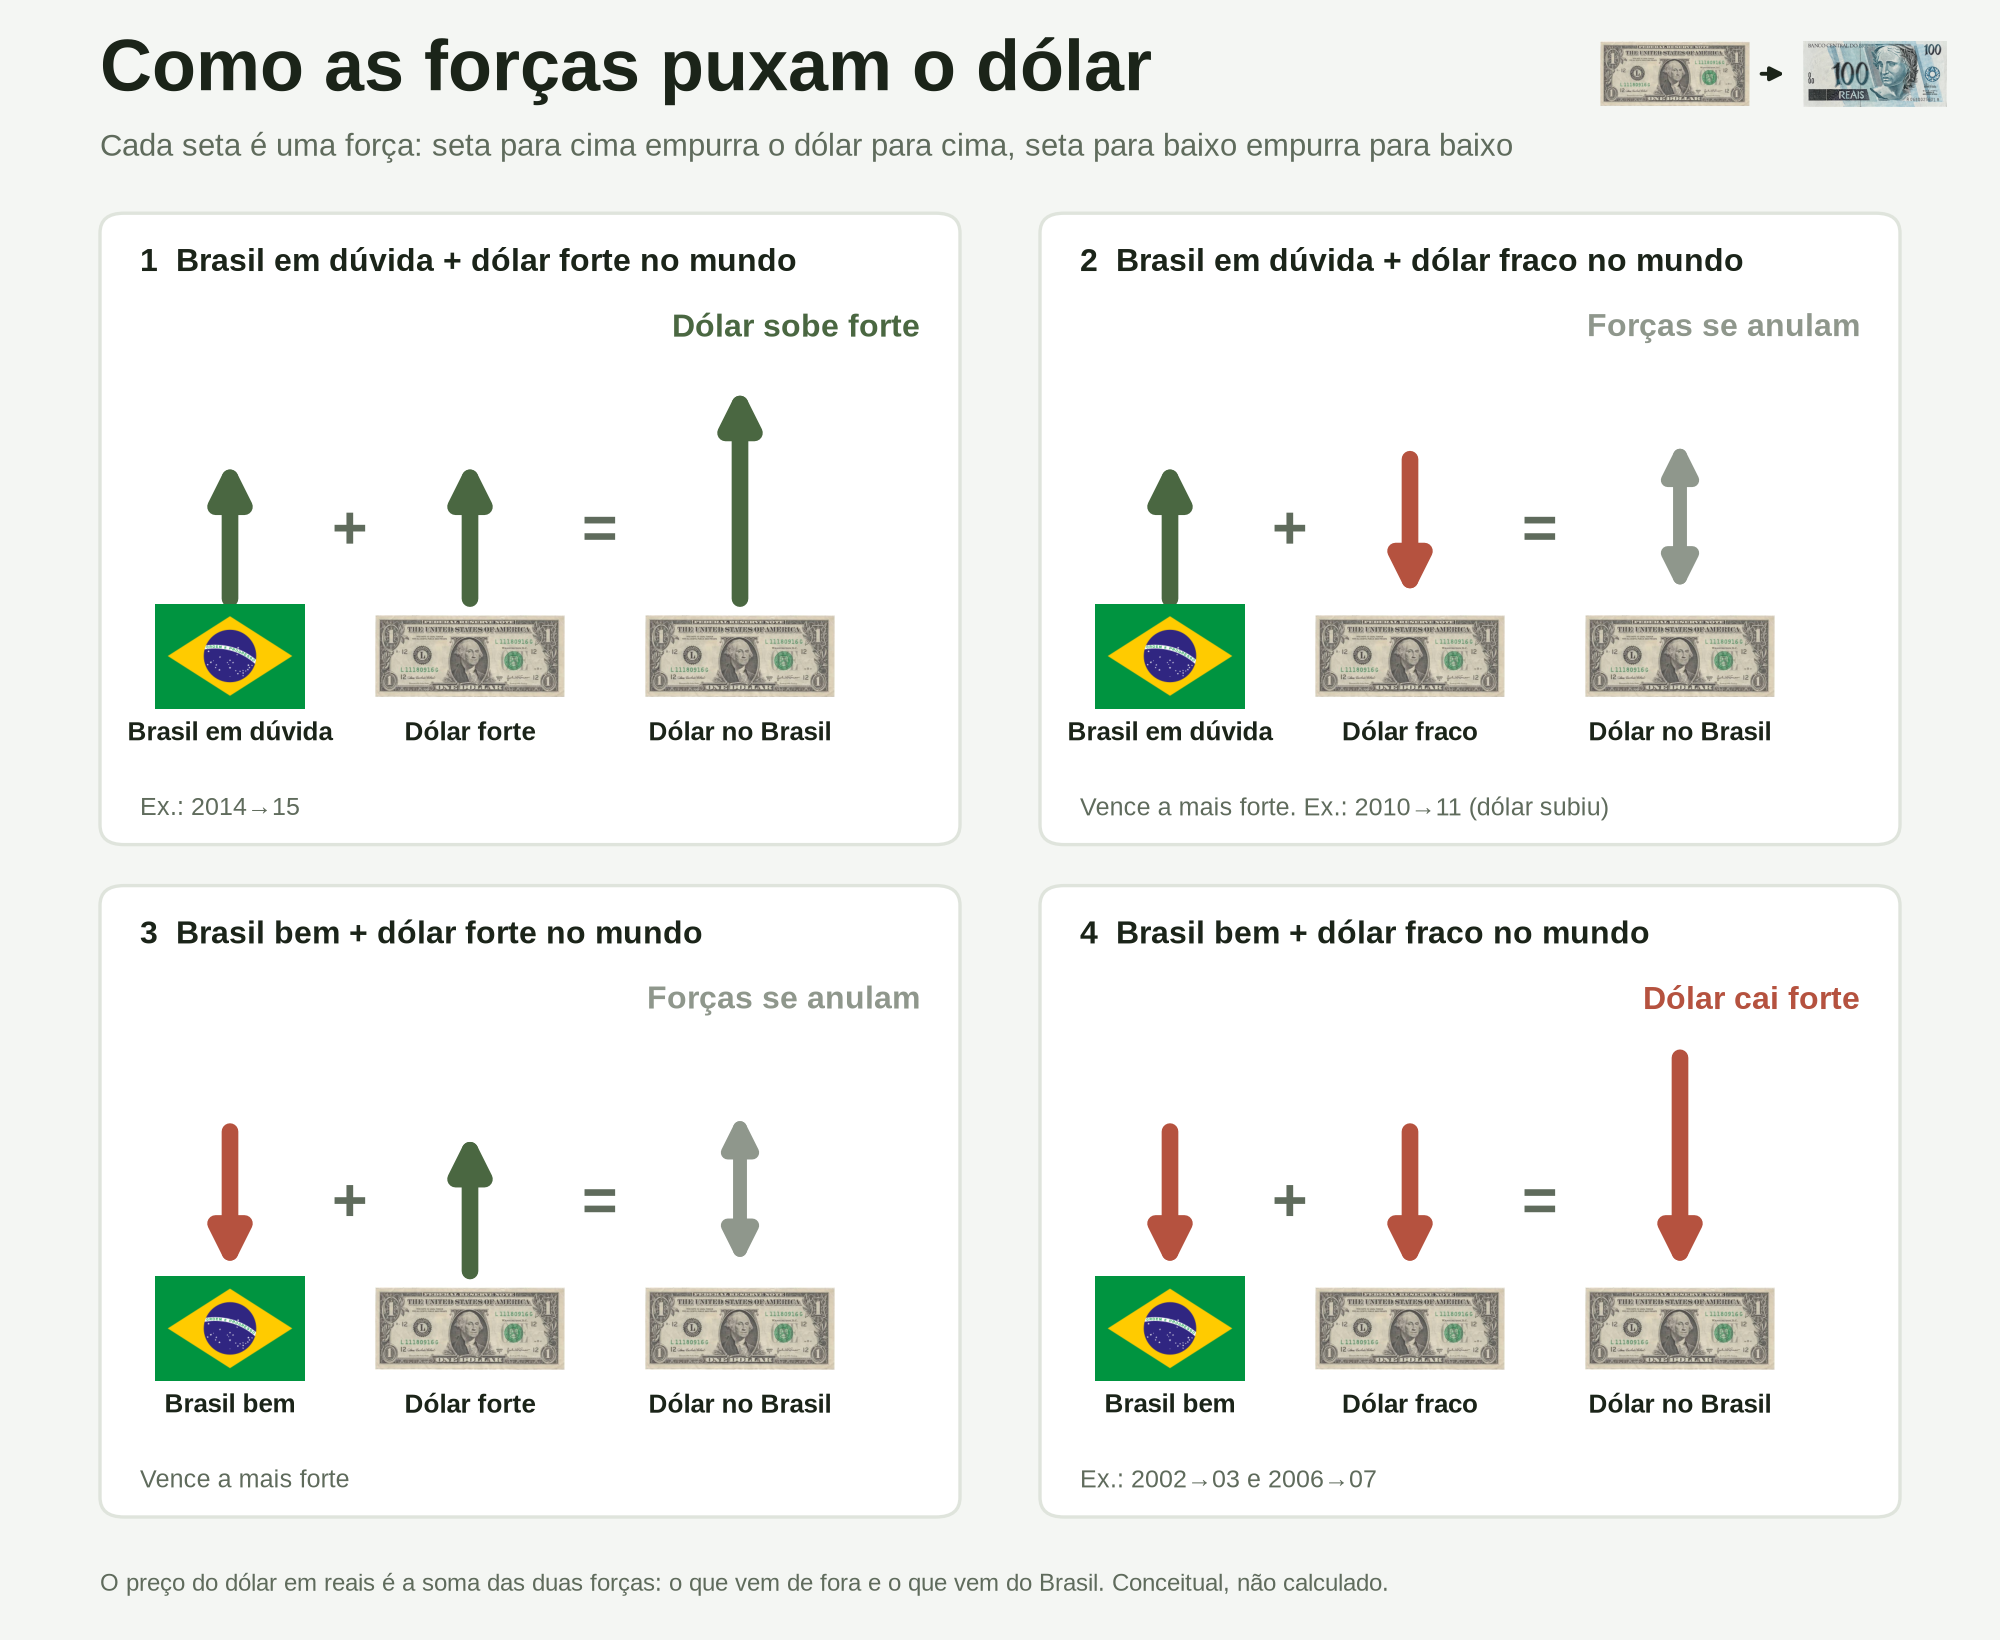
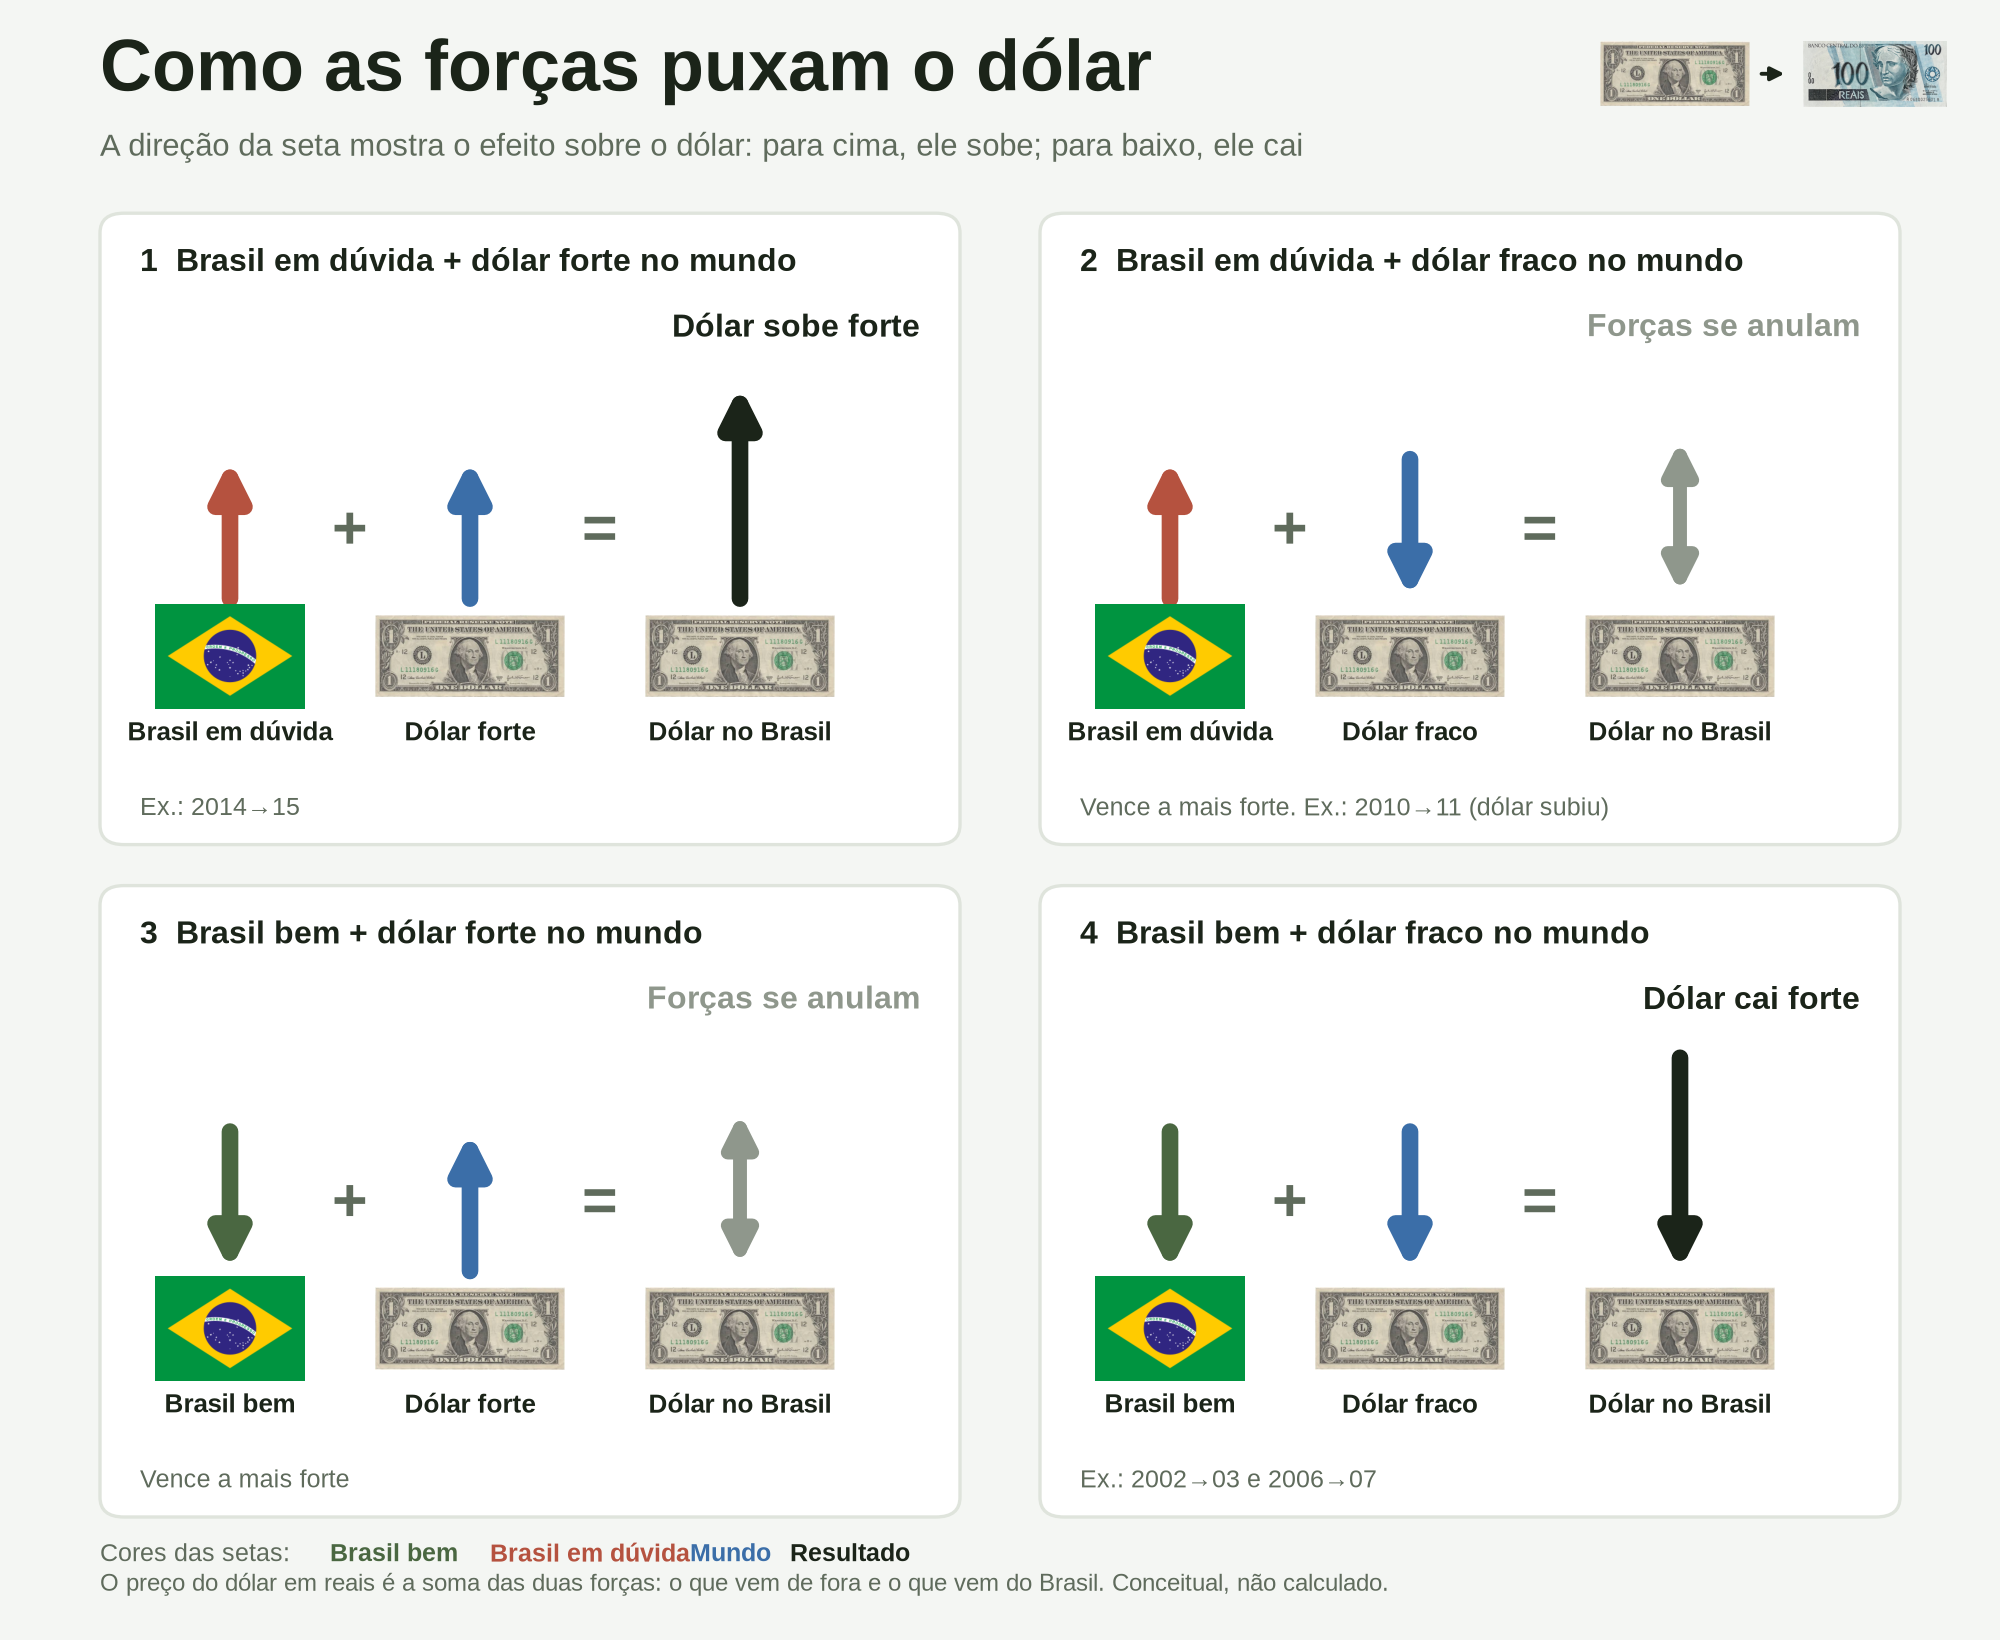
Cores das setas por cenário do Brasil (verde bem, vermelho em dúvida), mundo azul
Claude-Session: https://claude.ai/code/session_0199Y78iJYXbJq94ojXAjU9F

diff --git a/infografico_forcas_dolar.py b/infografico_forcas_dolar.py
@@ -8,6 +8,7 @@ from PIL import Image
 
 BG, INK, MUTED, GRID = "#f4f6f3", "#1b2419", "#5f6b5c", "#dfe4dc"
 UP, DOWN, NEUTRO = "#4a6741", "#b5523f", "#8f978c"
+BLUE = "#3b6ea8"
 plt.rcParams["font.family"] = "Liberation Sans" if any("Liberation Sans" in f.name for f in fm.fontManager.ttflist) else "DejaVu Sans"
 FLAG = Image.open("imagens/bandeira_brasil.webp").convert("RGB")
 USD = Image.open("imagens/dolar_nota.jpg").convert("RGB")
@@ -16,7 +17,7 @@ BRL = Image.open("imagens/real_nota.jpg").convert("RGB")
 fig = plt.figure(figsize=(10, 8.2), dpi=200, facecolor=BG)
 F = fig.add_axes([0, 0, 1, 1]); F.set_xlim(0, 1); F.set_ylim(0, 1); F.axis("off"); F.patch.set_alpha(0)
 fig.text(.05, .945, "Como as forças puxam o dólar", color=INK, fontsize=26, fontweight="bold")
-fig.text(.05, .905, "Cada seta é uma força: seta para cima empurra o dólar para cima, seta para baixo empurra para baixo", color=MUTED, fontsize=11)
+fig.text(.05, .905, "A direção da seta mostra o efeito sobre o dólar: para cima, ele sobe; para baixo, ele cai", color=MUTED, fontsize=11)
 # US$ -> R$ no canto
 for im, x in ((USD, .80), (BRL, .90)):
     a = fig.add_axes([x, .935, .075, .04]); a.imshow(im); a.axis("off")
@@ -47,21 +48,25 @@ def card(x0, y0, titulo, brasil, mundo, resultado, exemplo):
     # Resultado
     icone(USD, xs[2], base, .095)
     fig.text(xs[2], base - .047, "Dólar no Brasil", color=INK, fontsize=9.5, ha="center", va="center", fontweight="bold")
-    for cx, (sent, L) in zip(xs[:2], (brasil[1], mundo[1])):
-        cor = UP if sent > 0 else DOWN
+    cor_brasil = UP if "bem" in brasil[0] else DOWN      # verde = Brasil bem, vermelho = Brasil em dúvida
+    for cx, (sent, L), cor in zip(xs[:2], (brasil[1], mundo[1]), (cor_brasil, BLUE)):
         seta(cx, base + .035 if sent > 0 else base + .035 + L, sent * L, cor)
     sent, L = resultado[1]
     if sent == 0:
         F.add_patch(FancyArrowPatch((xs[2], base + .035), (xs[2], base + .035 + .1), arrowstyle="<|-|>", mutation_scale=22, lw=5, color=NEUTRO))
     else:
-        cor = UP if sent > 0 else DOWN
-        seta(xs[2], base + .035 if sent > 0 else base + .035 + L, sent * L, cor)
-    fig.text(x0 + W - .02, y0 + H - .07, resultado[0], color=(NEUTRO if sent == 0 else (UP if sent > 0 else DOWN)), fontsize=11.5, fontweight="bold", va="center", ha="right")
+        seta(xs[2], base + .035 if sent > 0 else base + .035 + L, sent * L, INK)
+    fig.text(x0 + W - .02, y0 + H - .07, resultado[0], color=(NEUTRO if sent == 0 else INK), fontsize=11.5, fontweight="bold", va="center", ha="right")
     fig.text(x0 + .02, y0 + .022, exemplo, color=MUTED, fontsize=9, va="center")
 
 card(.05, .485, "1  Brasil em dúvida + dólar forte no mundo", ("Brasil em dúvida", (1, .085)), ("Dólar forte", (1, .085)), ("Dólar sobe forte", (1, .13)), "Ex.: 2014→15")
 card(.52, .485, "2  Brasil em dúvida + dólar fraco no mundo", ("Brasil em dúvida", (1, .085)), ("Dólar fraco", (-1, .085)), ("Forças se anulam", (0, 0)), "Vence a mais forte. Ex.: 2010→11 (dólar subiu)")
 card(.05, .075, "3  Brasil bem + dólar forte no mundo", ("Brasil bem", (-1, .085)), ("Dólar forte", (1, .085)), ("Forças se anulam", (0, 0)), "Vence a mais forte")
 card(.52, .075, "4  Brasil bem + dólar fraco no mundo", ("Brasil bem", (-1, .085)), ("Dólar fraco", (-1, .085)), ("Dólar cai forte", (-1, .13)), "Ex.: 2002→03 e 2006→07")
+fig.text(.05, .052, "Cores das setas:", color=MUTED, fontsize=9, va="center")
+fig.text(.165, .052, "Brasil bem", color=UP, fontsize=9, fontweight="bold", va="center")
+fig.text(.245, .052, "Brasil em dúvida", color=DOWN, fontsize=9, fontweight="bold", va="center")
+fig.text(.345, .052, "Mundo", color=BLUE, fontsize=9, fontweight="bold", va="center")
+fig.text(.395, .052, "Resultado", color=INK, fontsize=9, fontweight="bold", va="center")
 fig.text(.05, .03, "O preço do dólar em reais é a soma das duas forças: o que vem de fora e o que vem do Brasil. Conceitual, não calculado.", color=MUTED, fontsize=8.5)
 fig.savefig("infografico_forcas_dolar.png", facecolor=BG); plt.close(fig)
